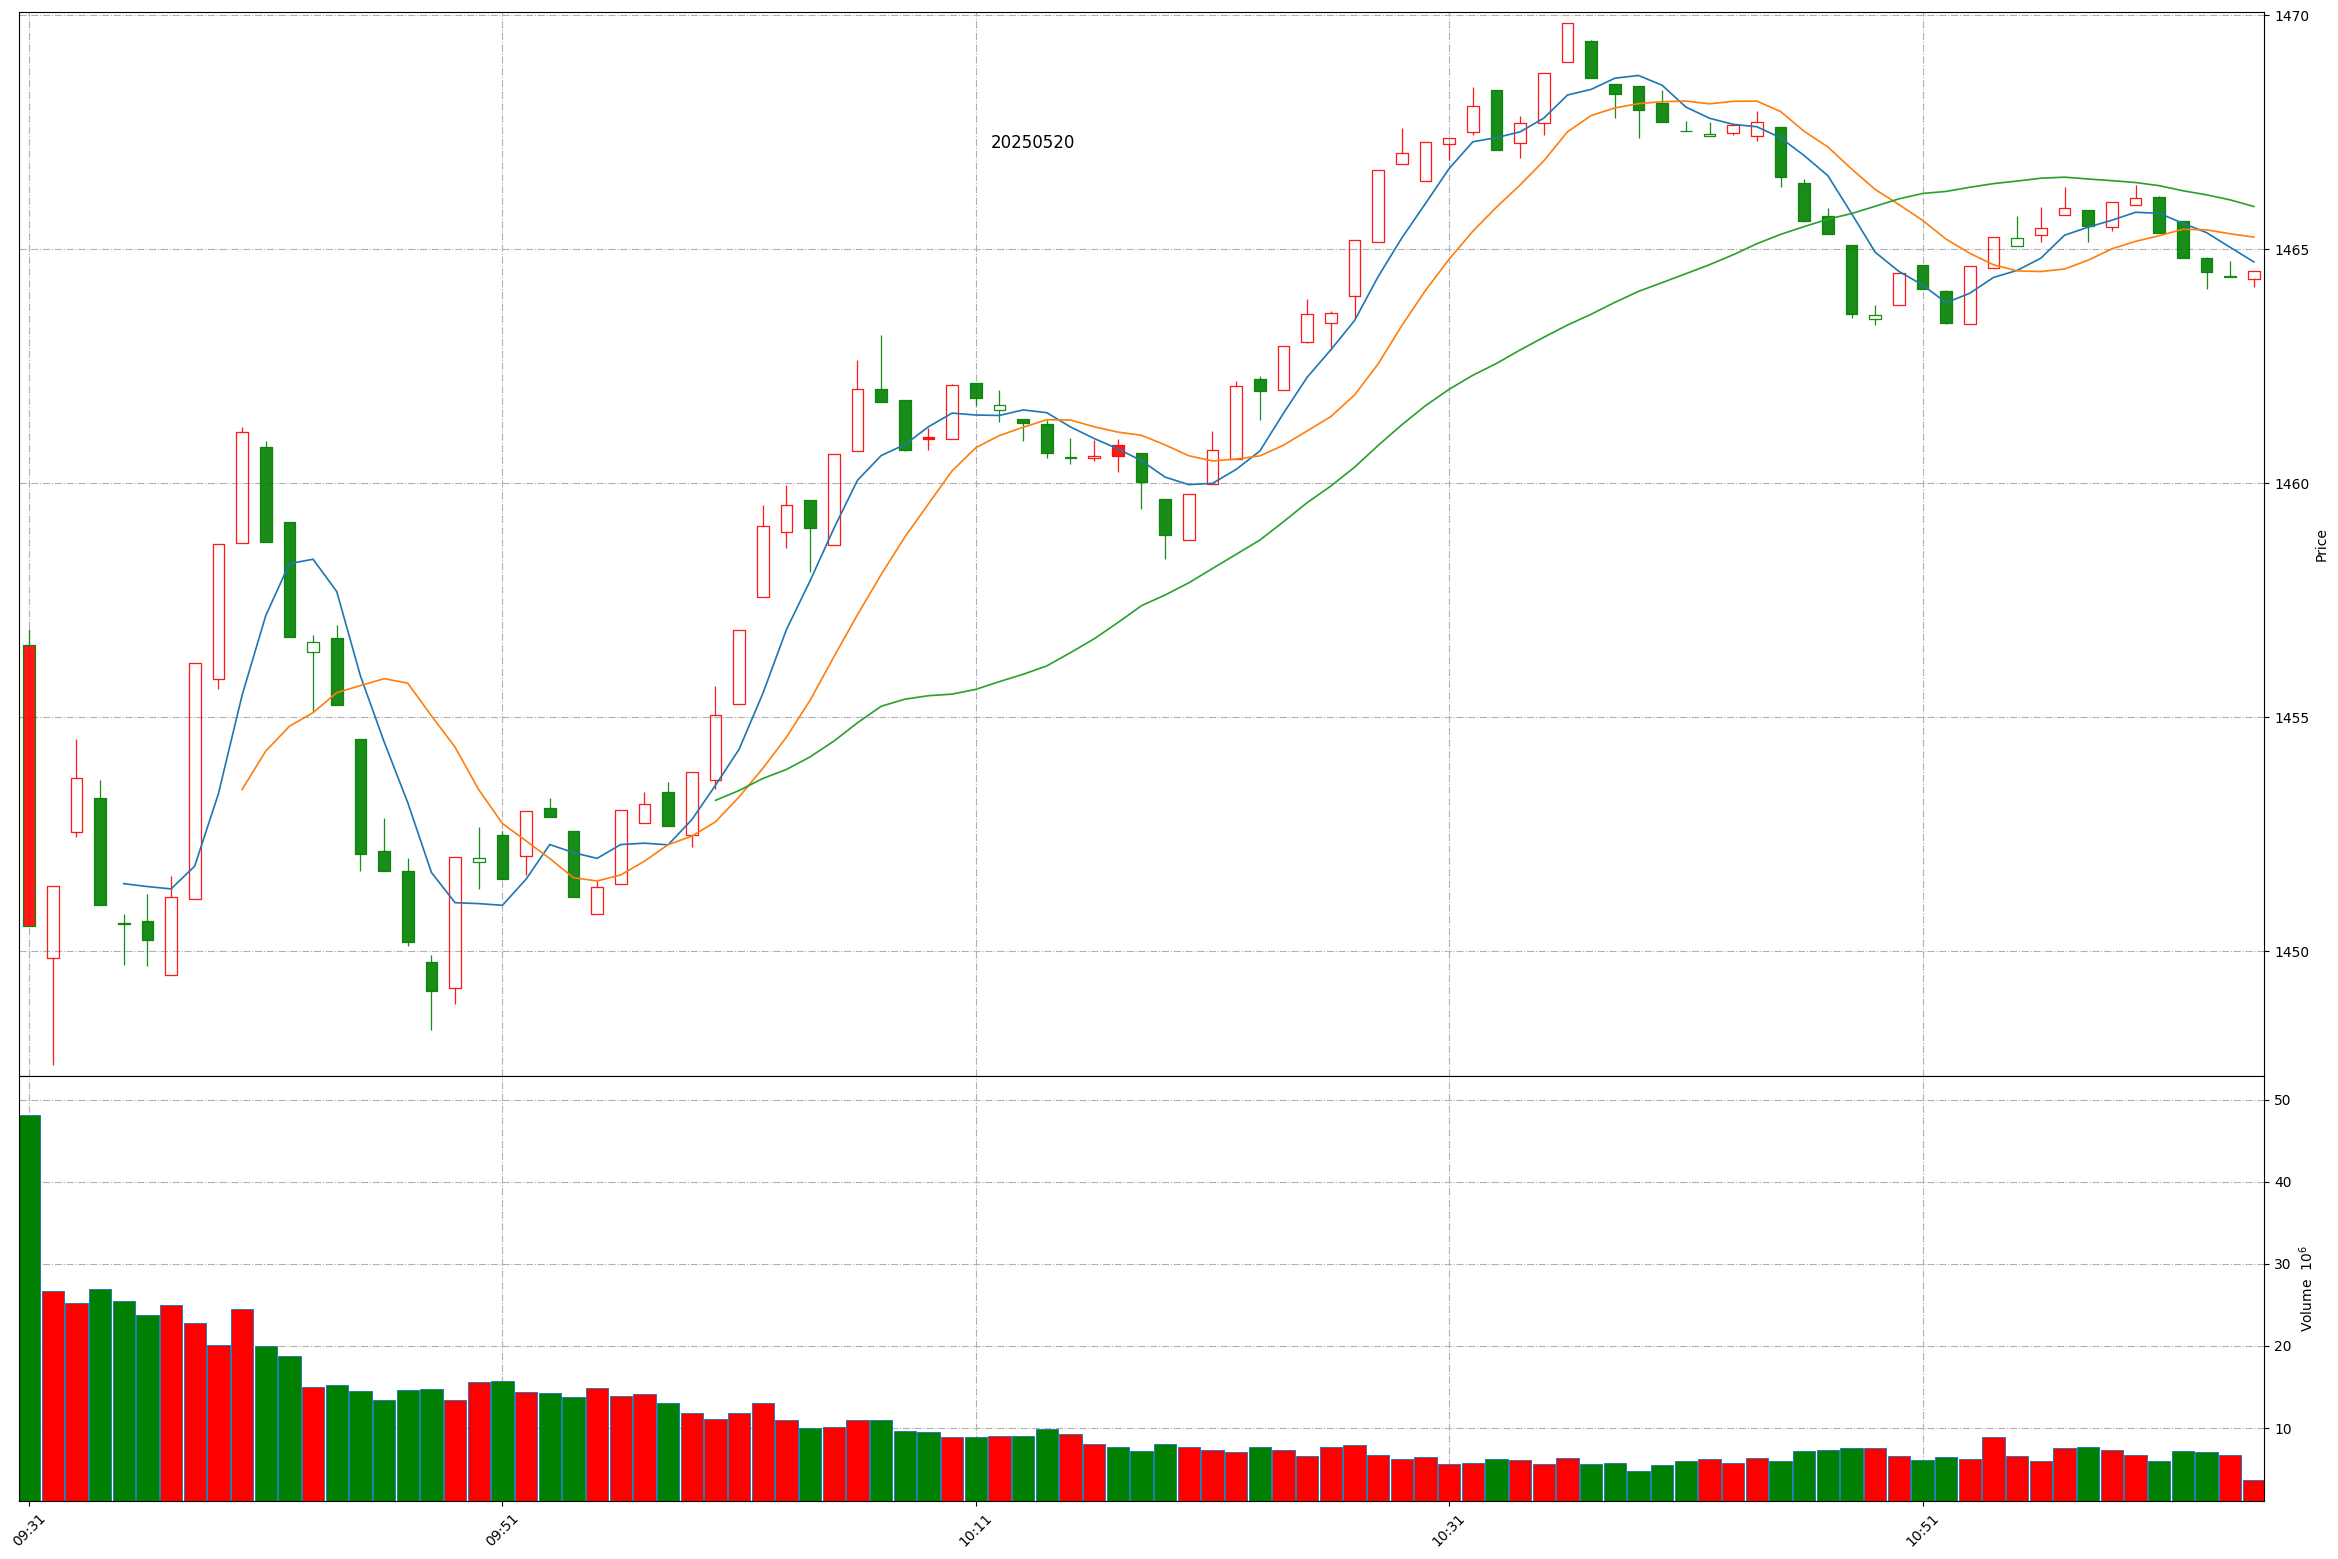
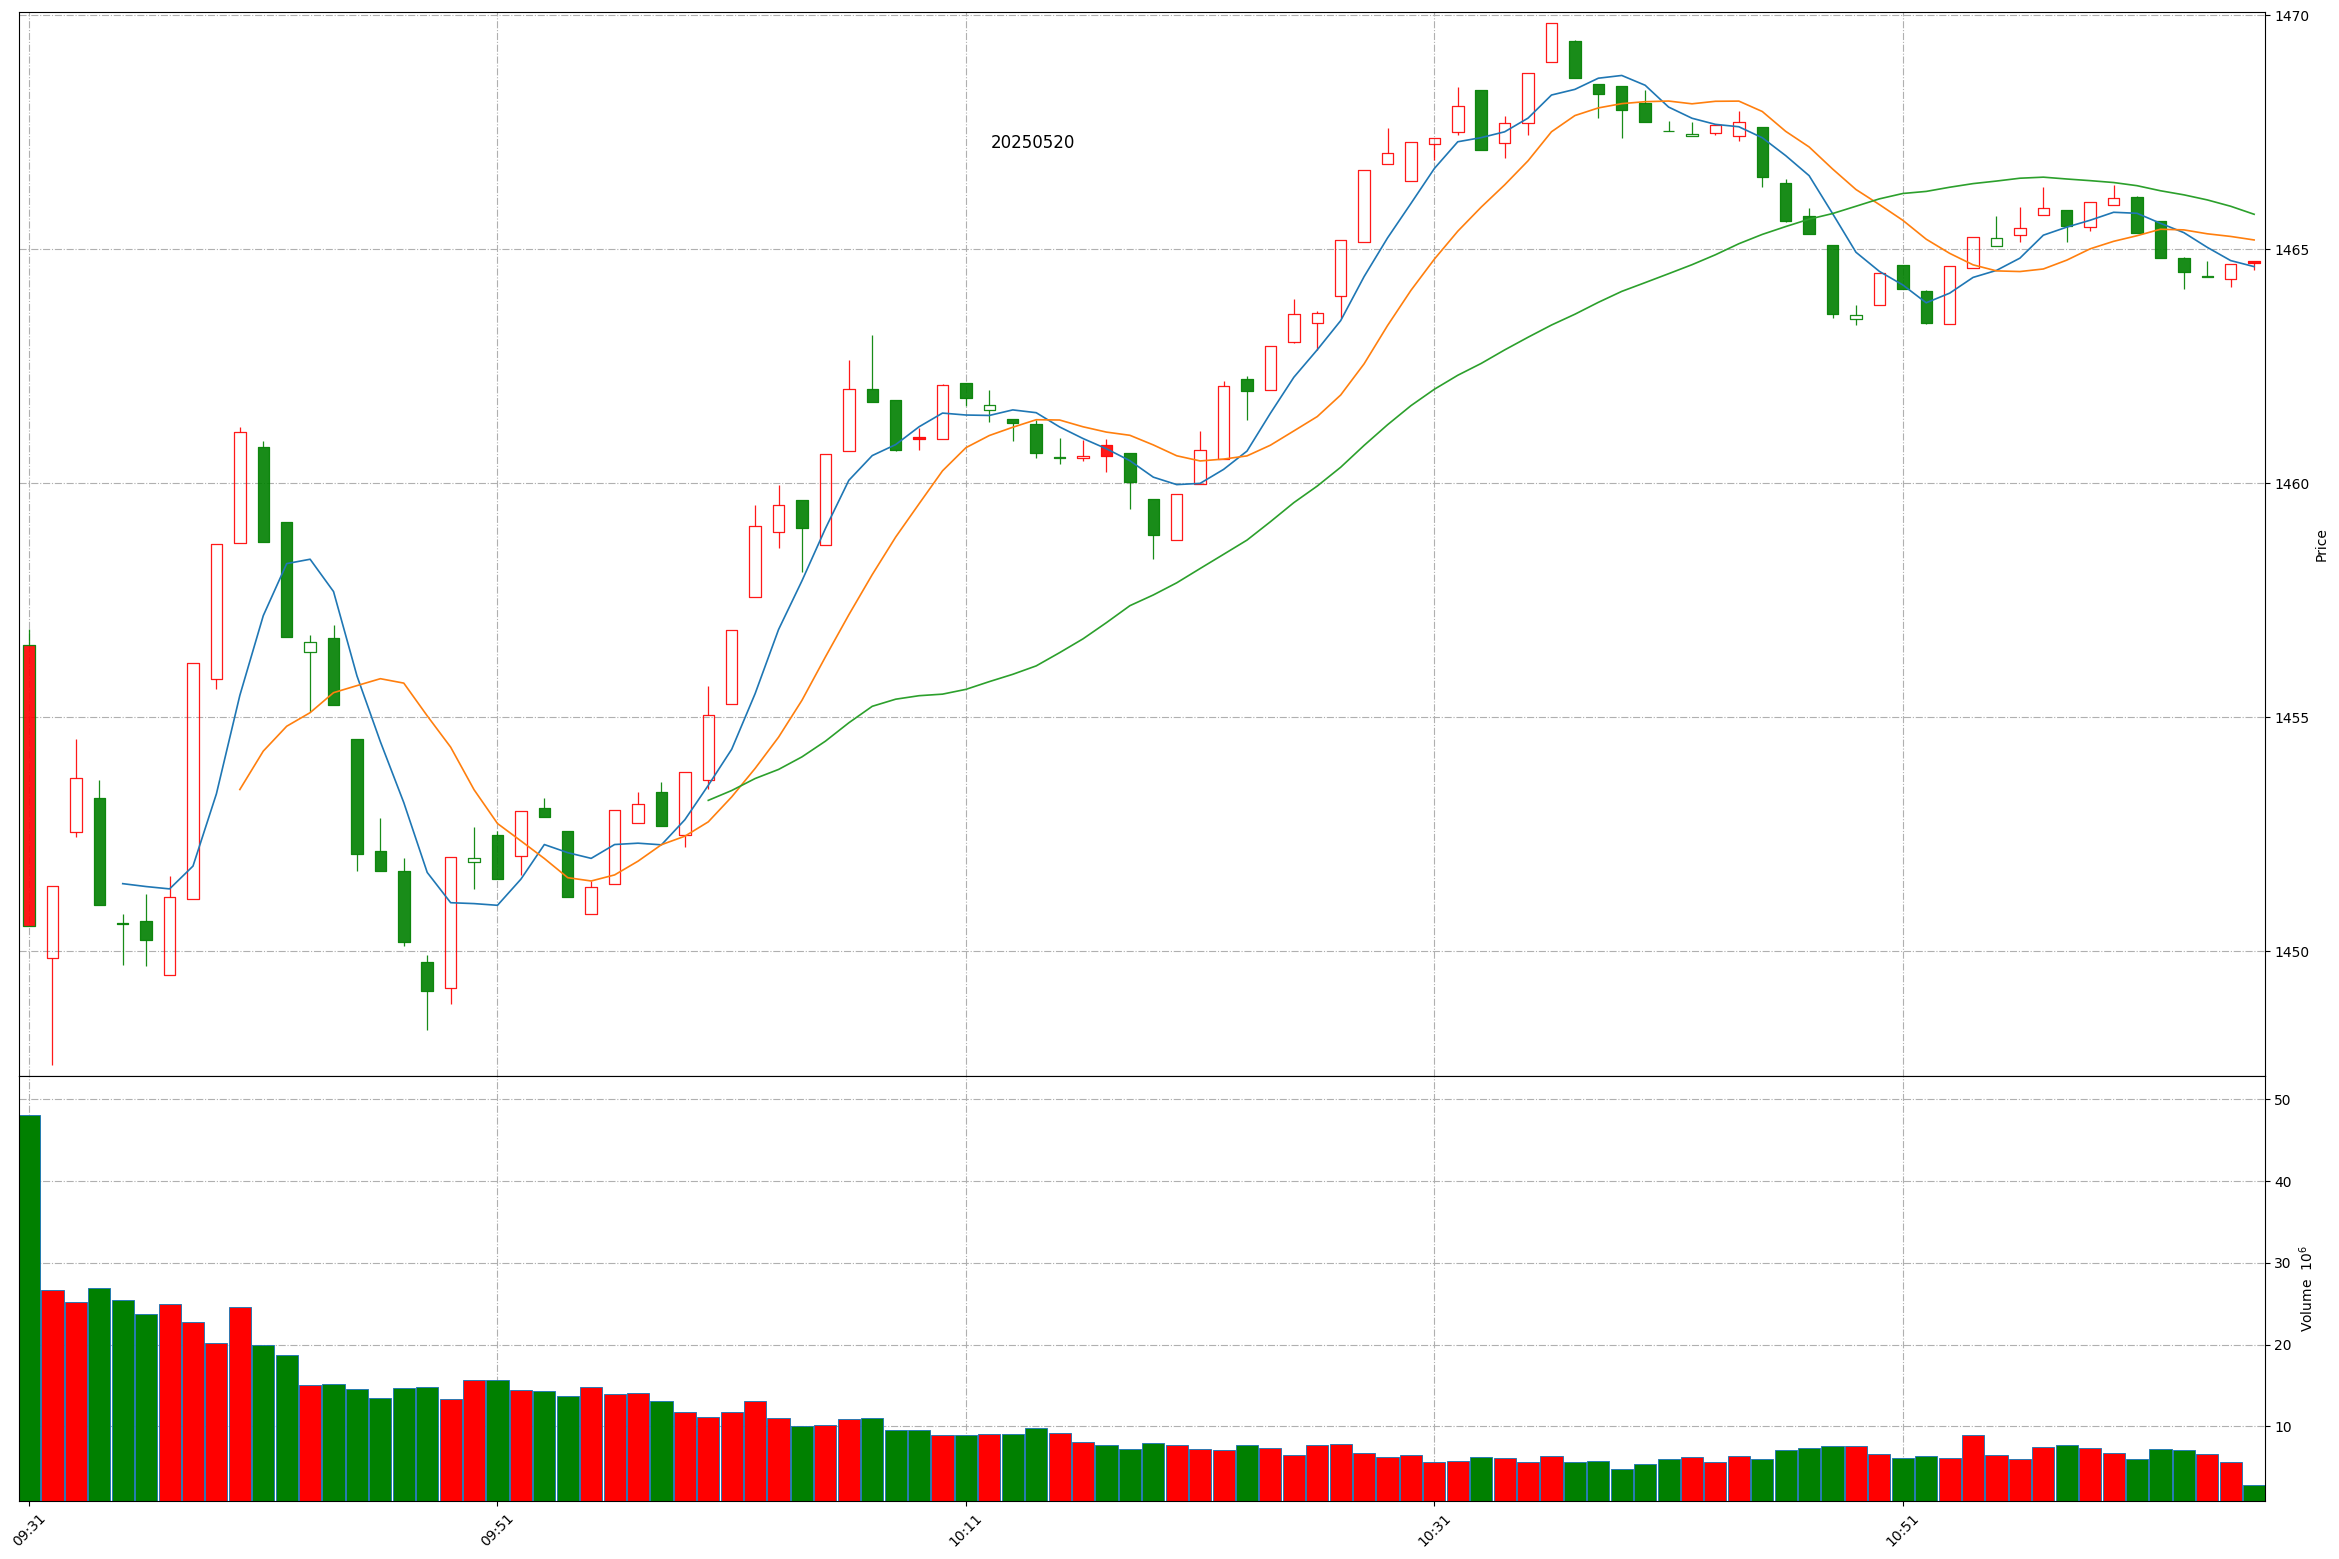
Github action update at 2025-05-20 11:05:44.

diff --git a/README.md b/README.md
@@ -1,11 +1,11 @@
 
 # Daily-A-share-market-quotes 每日 A 股指数（5min 更新）- 20250520
 
-### 上证指数 20250520 11:4
+### 上证指数 20250520 11:5
 ![](./fig/2025/5/20250520-sh000001.png)
 
-### 深证成指 20250520 11:4
+### 深证成指 20250520 11:5
 ![](./fig/2025/5/20250520-sz399001.png)
 
-### 北证50 20250520 11:4
+### 北证50 20250520 11:5
 ![](./fig/2025/5/20250520-bj899050.png)
